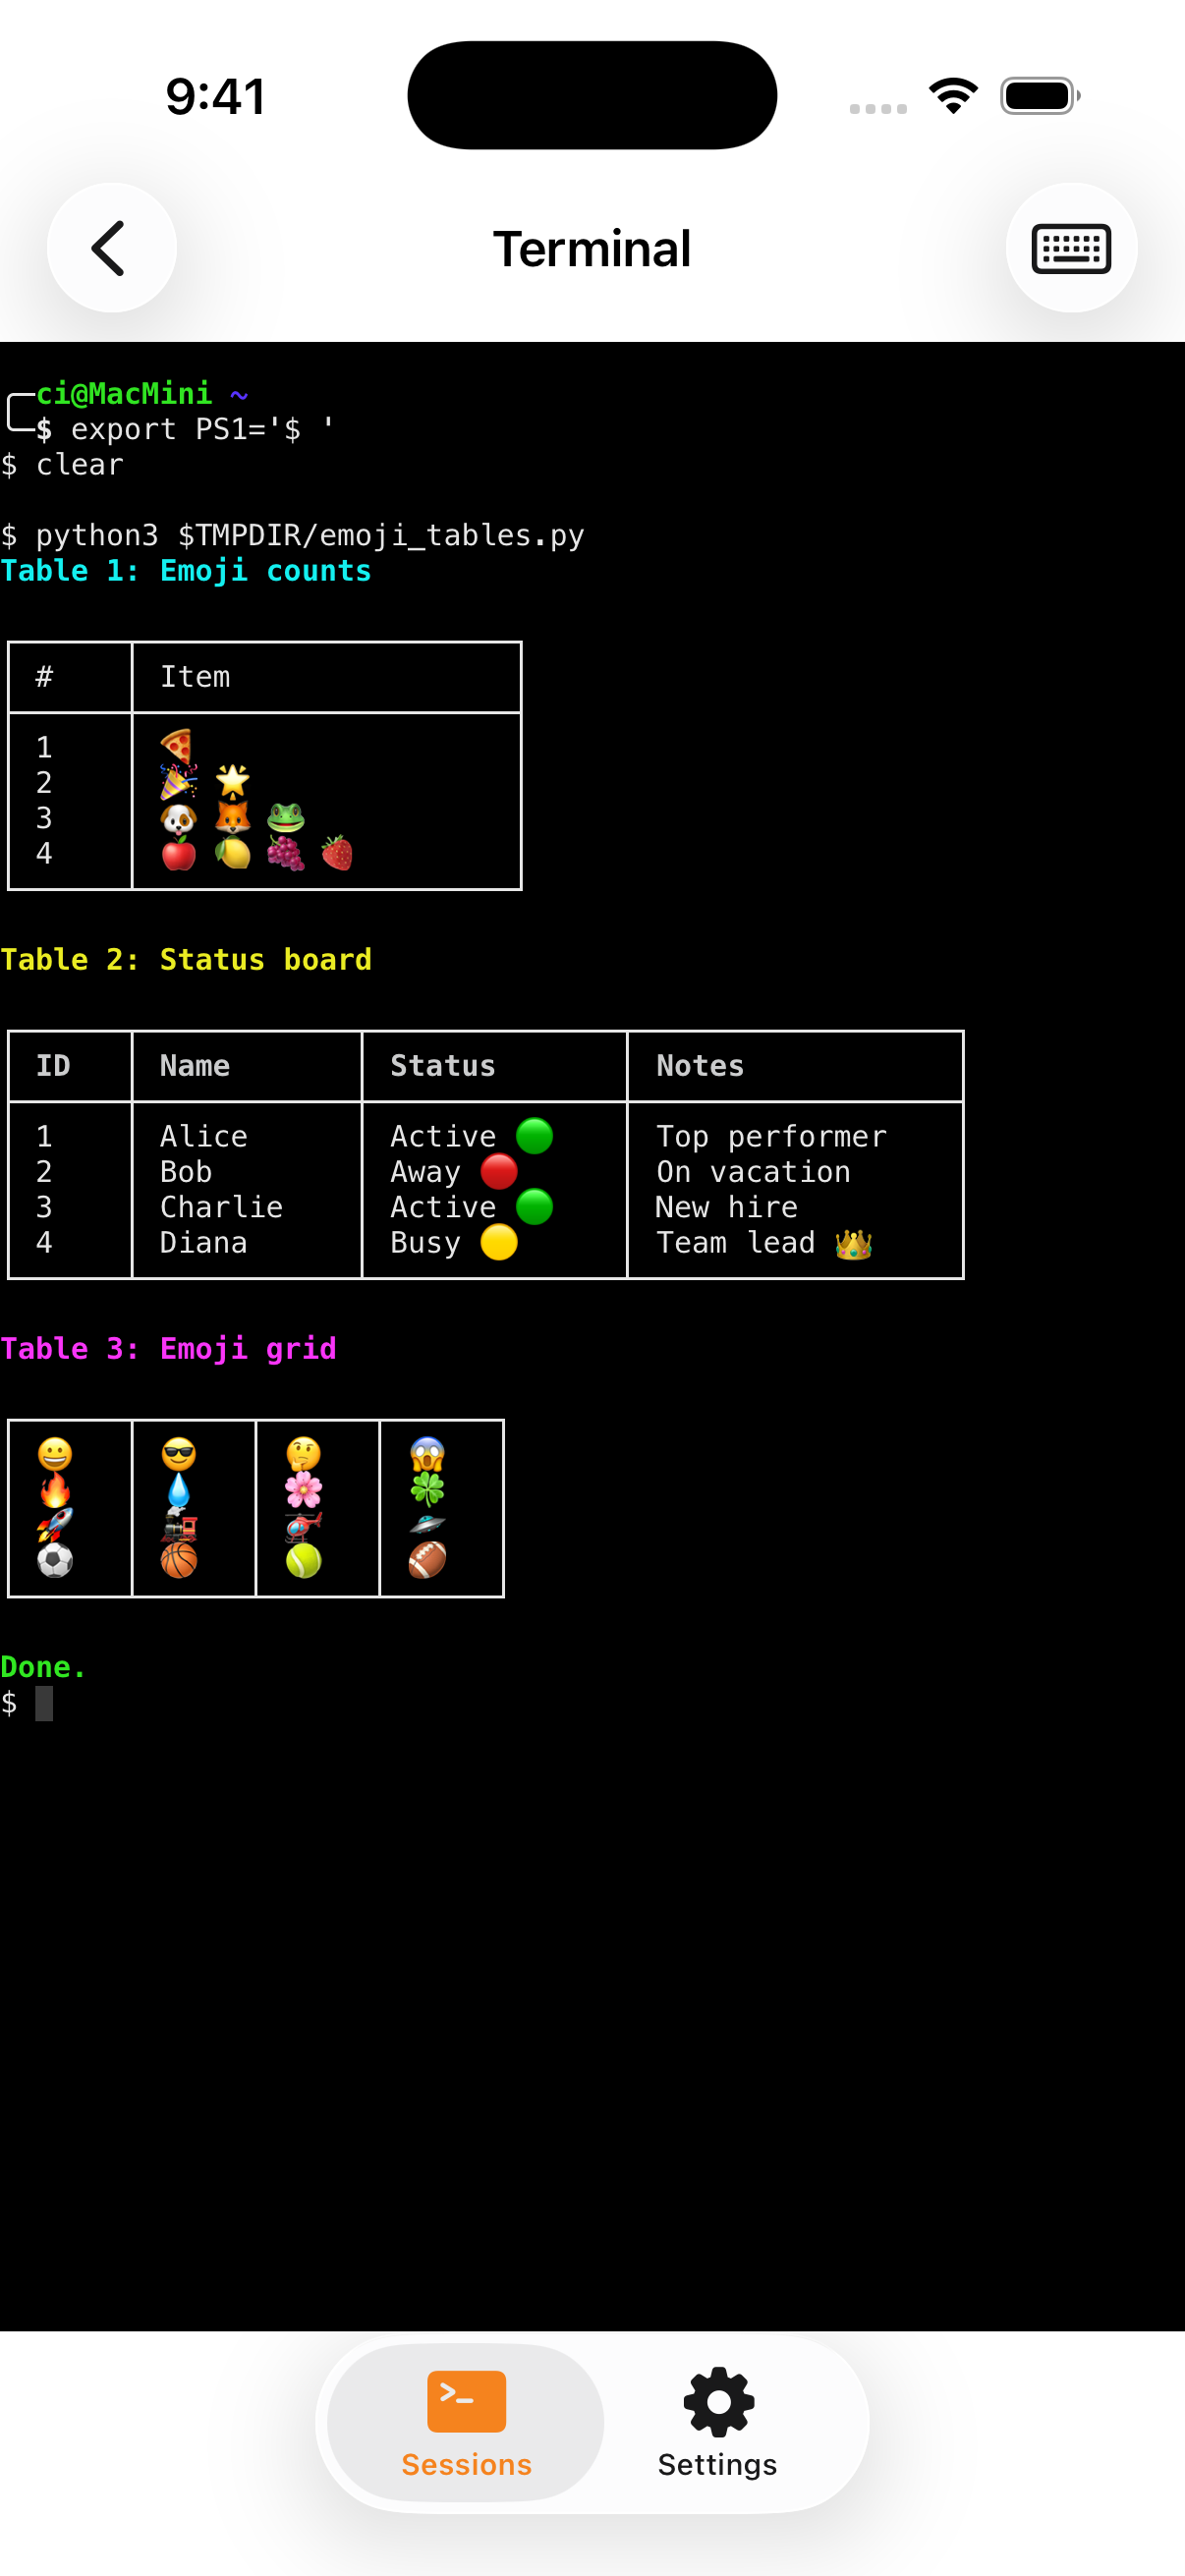
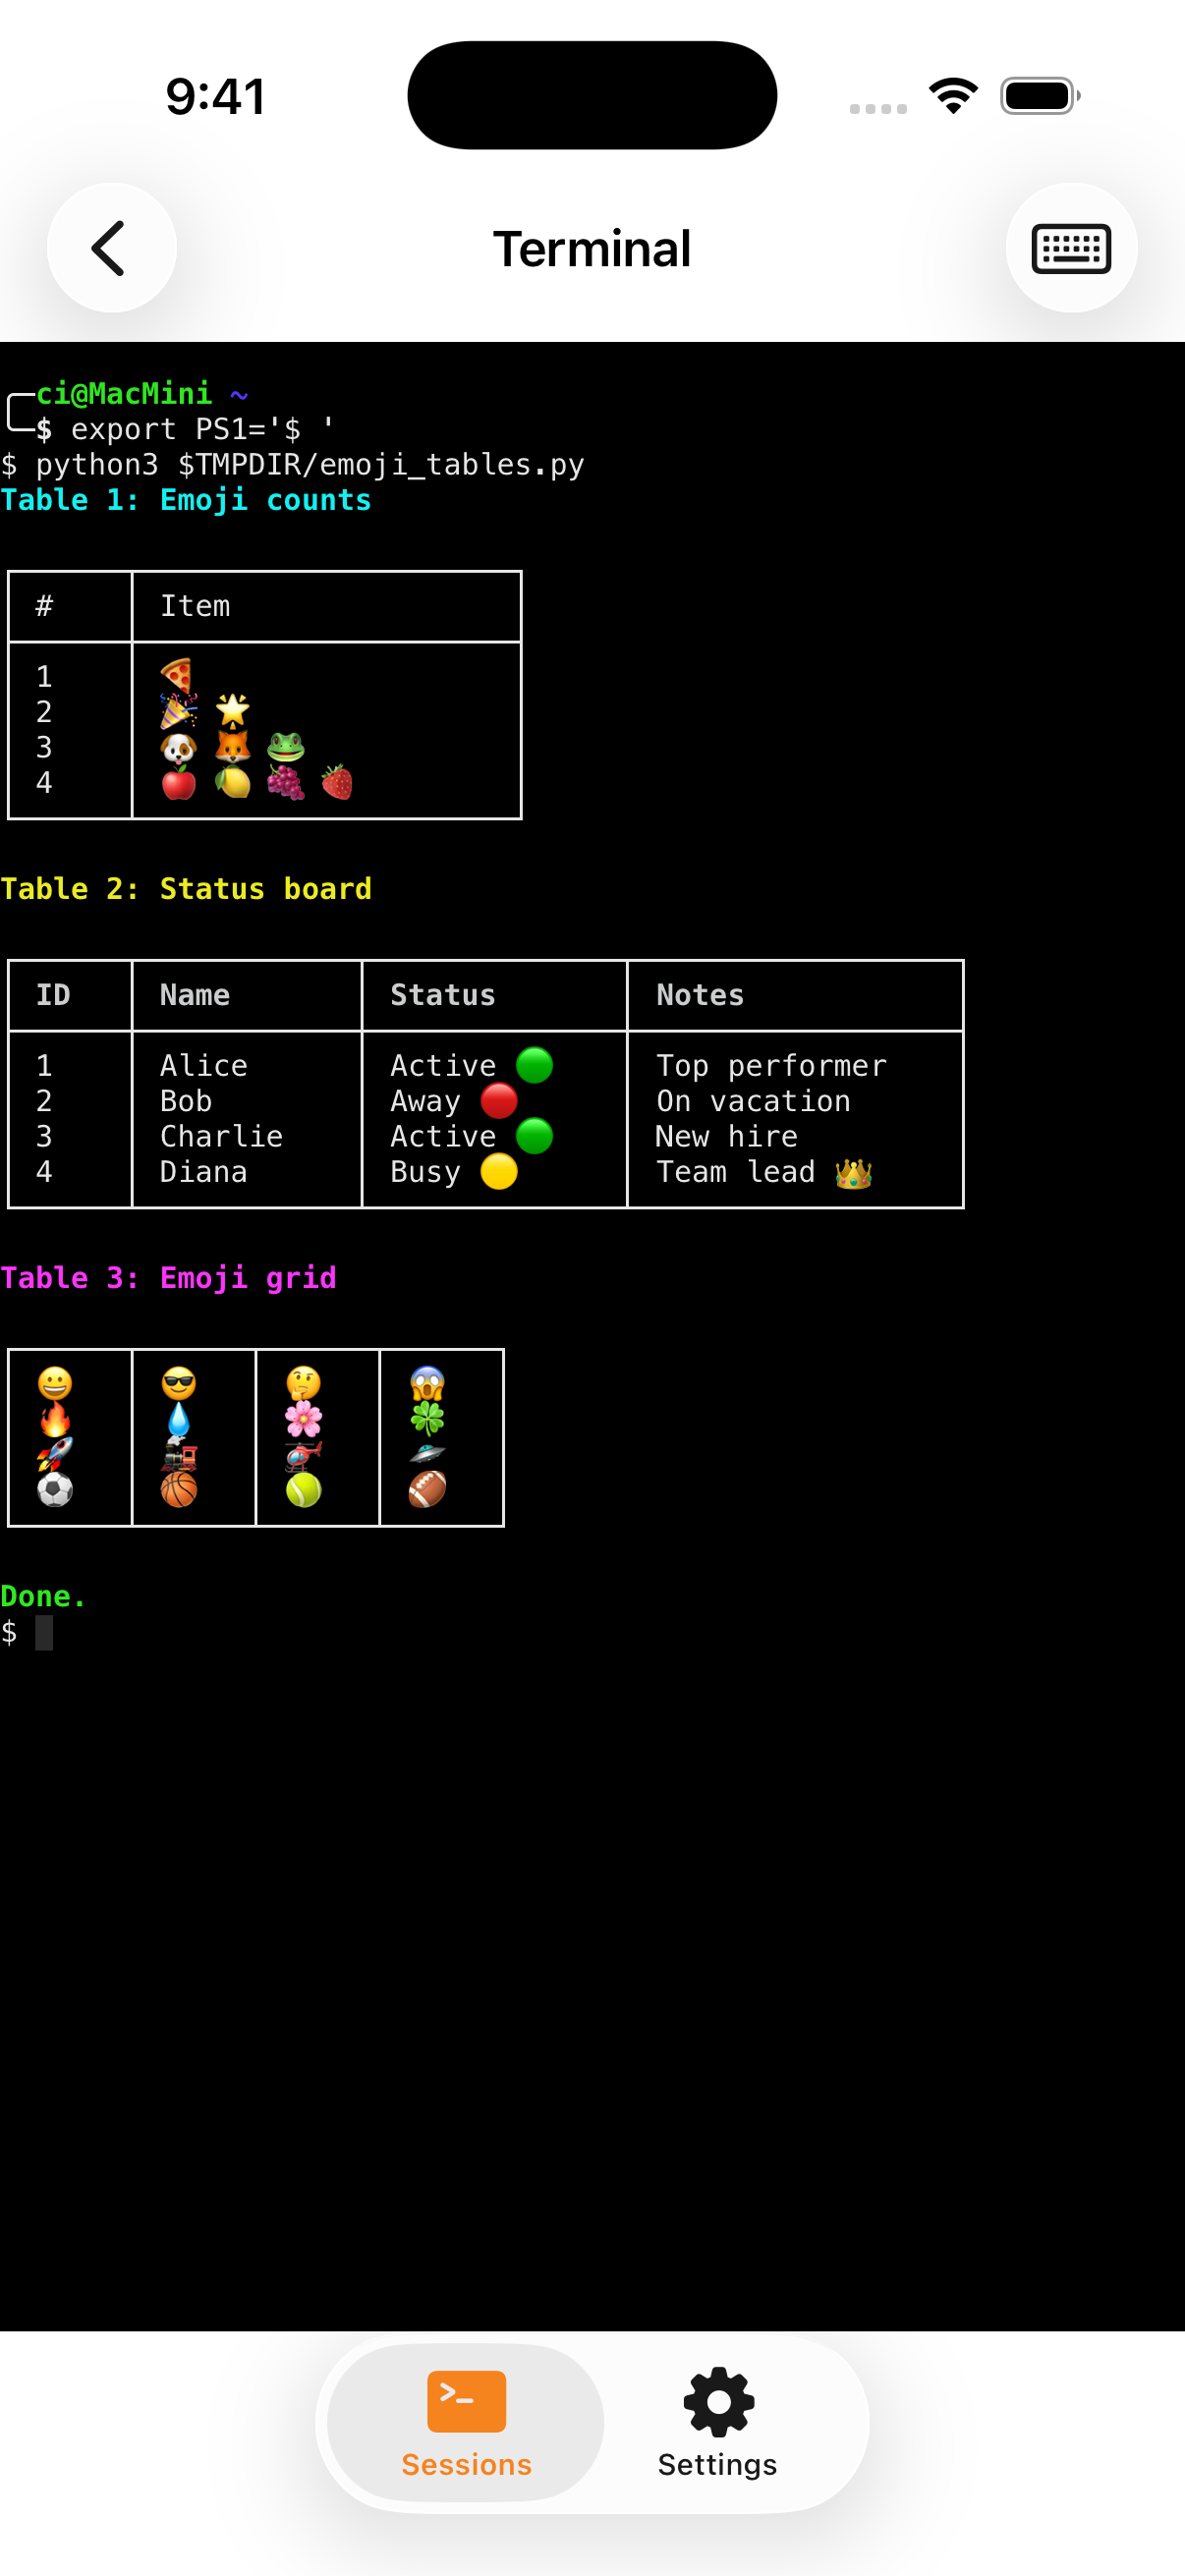
Fix intermittent Emoji Table Rendering E2E failure
Replace unreliable shell `clear` command with a Python-side
time.sleep(0.5) before CSI 2J to let the shell echo settle,
eliminating the race condition that left old content visible.

diff --git a/ClaudeSpyPackage/Sources/ClaudeSpyE2ELib/Scenarios/EmojiTableRenderingScenario.swift b/ClaudeSpyPackage/Sources/ClaudeSpyE2ELib/Scenarios/EmojiTableRenderingScenario.swift
@@ -41,9 +41,7 @@ public enum EmojiTableRenderingScenario {
             literal: true
         )
         TestStep.tmuxSendKeys(target: "emoji-tbl:0", keys: "Enter")
-        TestStep.tmuxSendKeys(target: "emoji-tbl:0", keys: "clear", literal: true)
-        TestStep.tmuxSendKeys(target: "emoji-tbl:0", keys: "Enter")
-        TestStep.wait(seconds: 1)
+        TestStep.wait(seconds: 0.5)
 
         // -- Create the Python script that draws all three tables ----------
         //
@@ -58,6 +56,7 @@ public enum EmojiTableRenderingScenario {
             cat > $TMPDIR/emoji_tables.py << 'PYEOF'
             import sys
             E="\033";C=E+"["
+            import time
             def o(s):sys.stdout.write(s);sys.stdout.flush()
 
             def dw(s):
@@ -173,6 +172,7 @@ public enum EmojiTableRenderingScenario {
                     o("\u2534" if i<ncols-1 else "\u2518")
                 o("\n")
 
+            time.sleep(0.5)
             o(f"{C}2J{C}H")
             table1()
             table2()